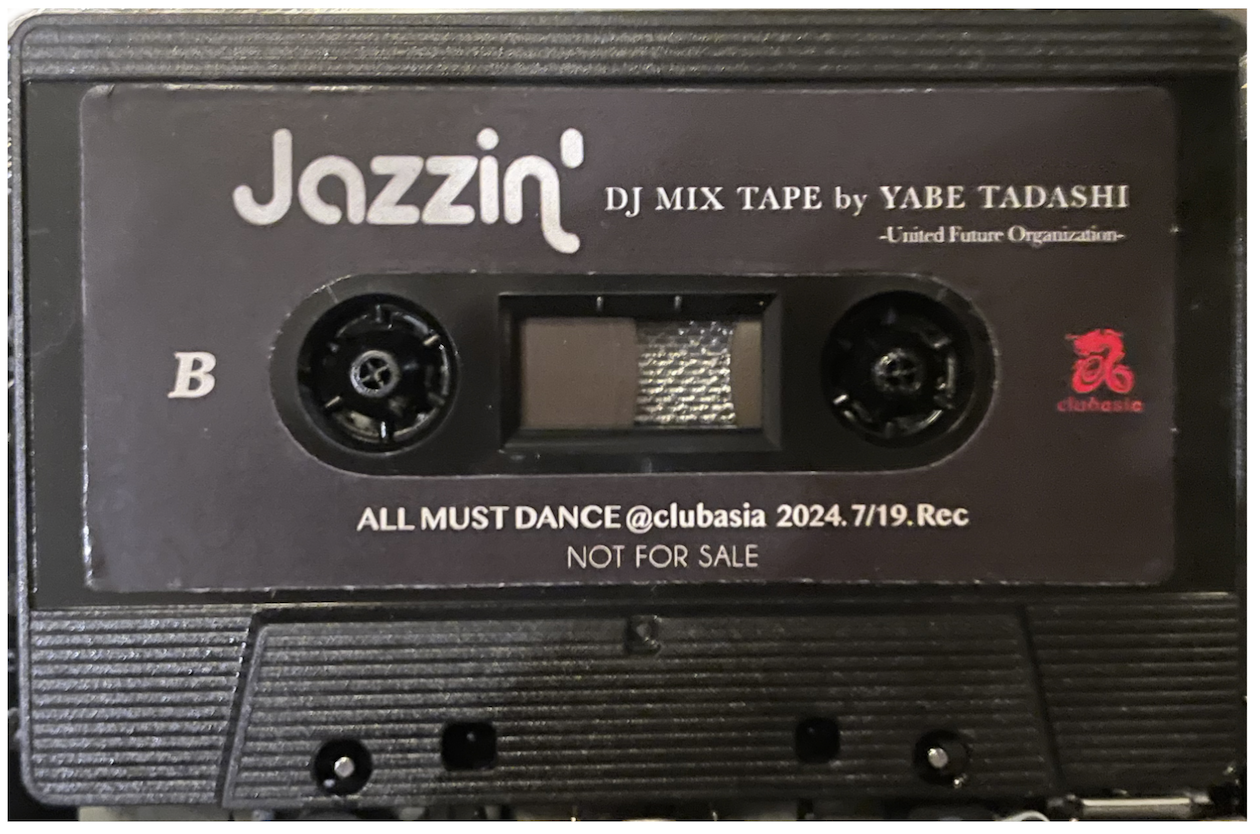
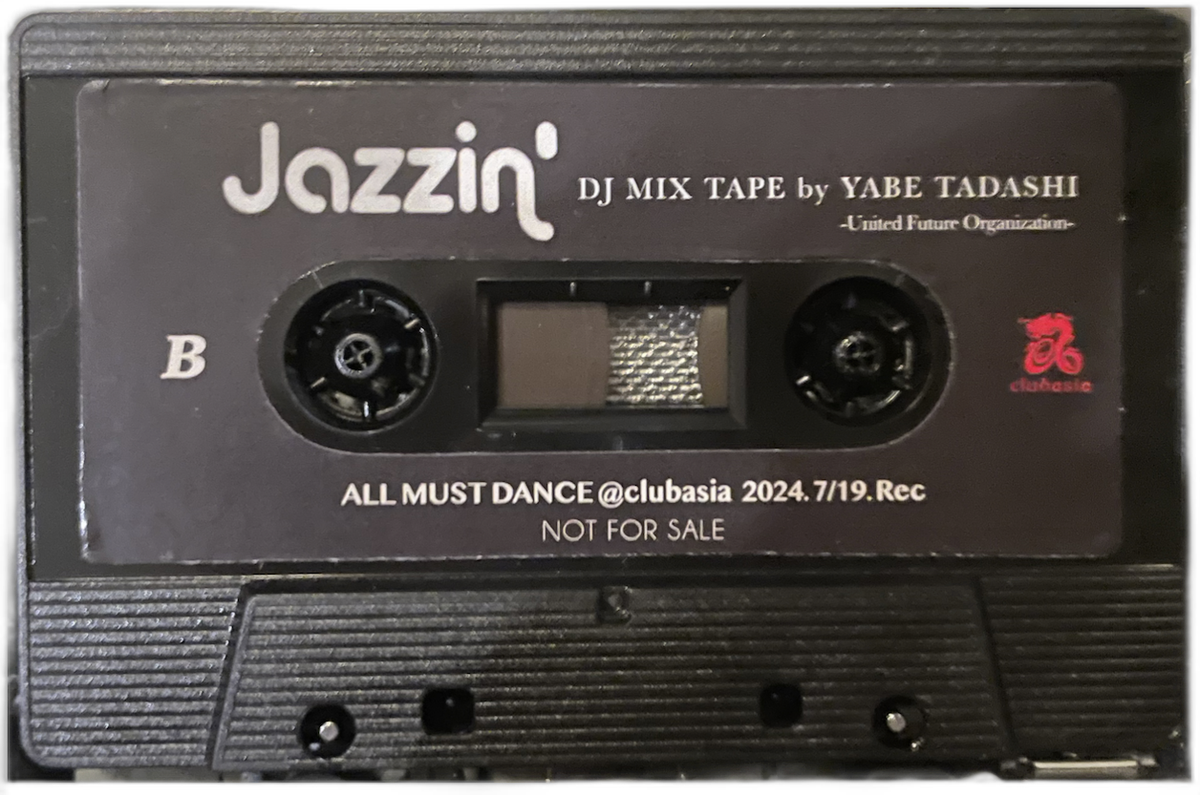
Make cassette float + spin reels + add ALL MUST DANCE sticker
- Remove white/surrounding background from deck/cassette.png so the
  cassette silhouette alone appears, floating against the dark page
  with a strong drop shadow.
- Overlay two CSS spoke patterns at the reel holes, rotating infinitely
  via @keyframes reel-spin (respects prefers-reduced-motion).
- Add deck/amd_sticker.png (cropped from IMG_7806 with background
  removed) and place it in chapter III above the cassette, slightly
  rotated for a pasted-sticker feel.

diff --git a/deck/index.html b/deck/index.html
@@ -177,13 +177,53 @@
   @media (max-width: 540px) {
     #tribute .timeline-row { grid-template-columns: 80px 1fr; gap: 16px; }
   }
-  #tribute .cassette-wrap { margin: 40px auto; max-width: 500px; text-align: center; }
+  #tribute .cassette-wrap { margin: 56px auto 40px; max-width: 520px; text-align: center; }
+  #tribute .cassette-stage {
+    position: relative; display: block;
+    filter:
+      drop-shadow(0 34px 48px rgba(0,0,0,0.55))
+      drop-shadow(0 10px 18px rgba(0,0,0,0.45));
+  }
   #tribute .cassette {
     width: 100%; height: auto; display: block;
-    border: 1px solid var(--dark-line);
+  }
+  #tribute .reel {
+    position: absolute;
+    top: 53%;
+    width: 11.5%;
+    aspect-ratio: 1 / 1;
+    translate: -50% -50%;
+    border-radius: 50%;
+    background: conic-gradient(
+      from 0deg,
+      rgba(255,255,255,0.22) 0deg 7deg, transparent 7deg 60deg,
+      rgba(255,255,255,0.22) 60deg 67deg, transparent 67deg 120deg,
+      rgba(255,255,255,0.22) 120deg 127deg, transparent 127deg 180deg,
+      rgba(255,255,255,0.22) 180deg 187deg, transparent 187deg 240deg,
+      rgba(255,255,255,0.22) 240deg 247deg, transparent 247deg 300deg,
+      rgba(255,255,255,0.22) 300deg 307deg, transparent 307deg 360deg
+    );
+    mix-blend-mode: screen;
+    pointer-events: none;
+    animation: reel-spin 7s linear infinite;
+    will-change: rotate;
+  }
+  #tribute .reel-left  { left: 20%; }
+  #tribute .reel-right { left: 62.5%; }
+  @keyframes reel-spin { to { rotate: 360deg; } }
+  @media (prefers-reduced-motion: reduce) {
+    #tribute .reel { animation: none; }
+  }
+  #tribute .sticker-wrap { margin: 56px auto 40px; max-width: 260px; text-align: center; }
+  #tribute .sticker {
+    width: 100%; height: auto; display: block;
+    transform: rotate(-4deg);
+    filter:
+      drop-shadow(0 22px 36px rgba(0,0,0,0.55))
+      drop-shadow(0 6px 12px rgba(0,0,0,0.4));
   }
   #tribute .cassette-caption {
-    margin-top: 16px; font-size: 11px; letter-spacing: 0.22em;
+    margin-top: 20px; font-size: 11px; letter-spacing: 0.22em;
     color: var(--dark-faded); line-height: 2;
   }
   #tribute .cassette-caption strong { color: var(--dark-soft); letter-spacing: 0.15em; }
@@ -512,11 +552,20 @@
 
     <p class="lead reveal">二〇二四年七月十九日、渋谷 clubasia。</p>
     <p class="reveal">矢部直が、生前最後にターンテーブルに向かったのは、NOBBYとともに立ち上げた〈ALL MUST DANCE™〉だった。</p>
+
+    <div class="sticker-wrap reveal">
+      <img src="amd_sticker.png" alt="ALL MUST DANCE TOKYO sticker" class="sticker">
+    </div>
+
     <p class="reveal">その六日後、七月二十五日。<br><strong>彼は、逝った。</strong></p>
     <p class="reveal">後日、〈Jazzin'〉の追悼パーティが開かれた。会場で、その夜に居合わせた者だけに、一本のカセットテープが手渡された。七月十九日の、彼の最後のセットが収録されていた。</p>
 
     <div class="cassette-wrap reveal">
-      <img src="cassette.png" alt="Jazzin' DJ MIX TAPE by YABE TADASHI" class="cassette">
+      <div class="cassette-stage">
+        <img src="cassette.png" alt="Jazzin' DJ MIX TAPE by YABE TADASHI" class="cassette">
+        <span class="reel reel-left" aria-hidden="true"></span>
+        <span class="reel reel-right" aria-hidden="true"></span>
+      </div>
       <div class="cassette-caption">
         <strong>JAZZIN'  ·  DJ MIX TAPE BY YABE TADASHI</strong><br>
         ALL MUST DANCE @ CLUBASIA  ·  2024.7.19 REC  ·  NOT FOR SALE
